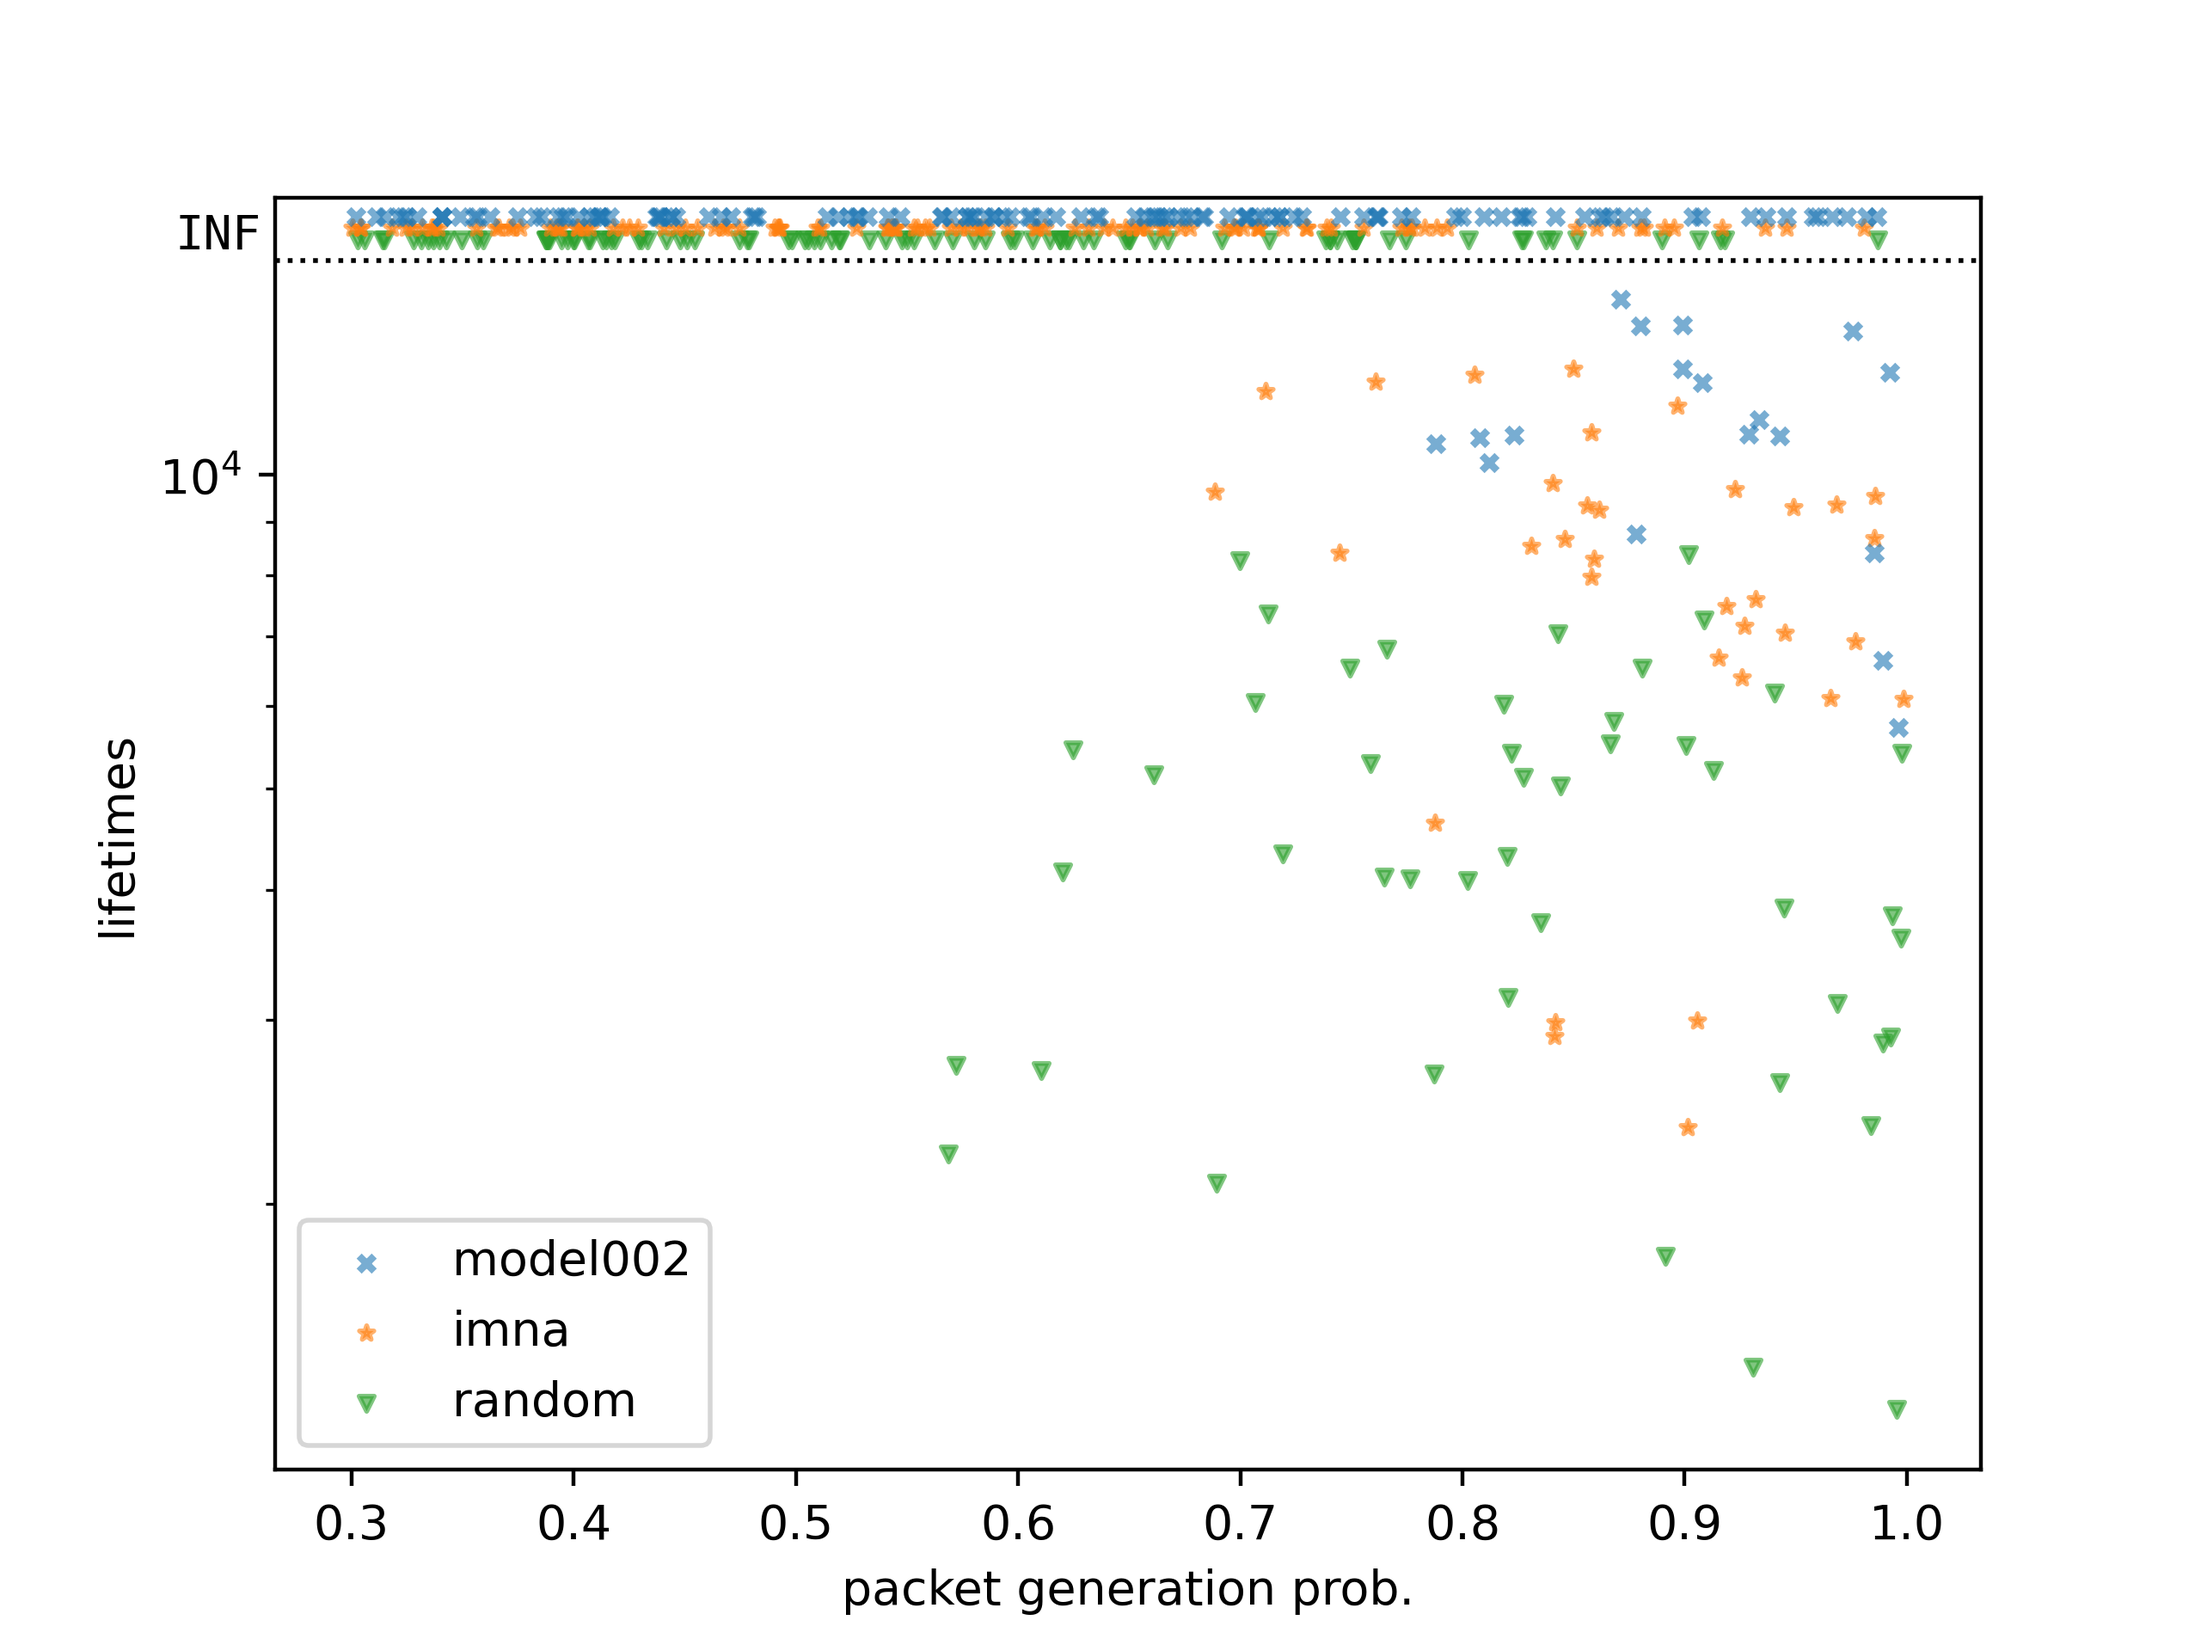
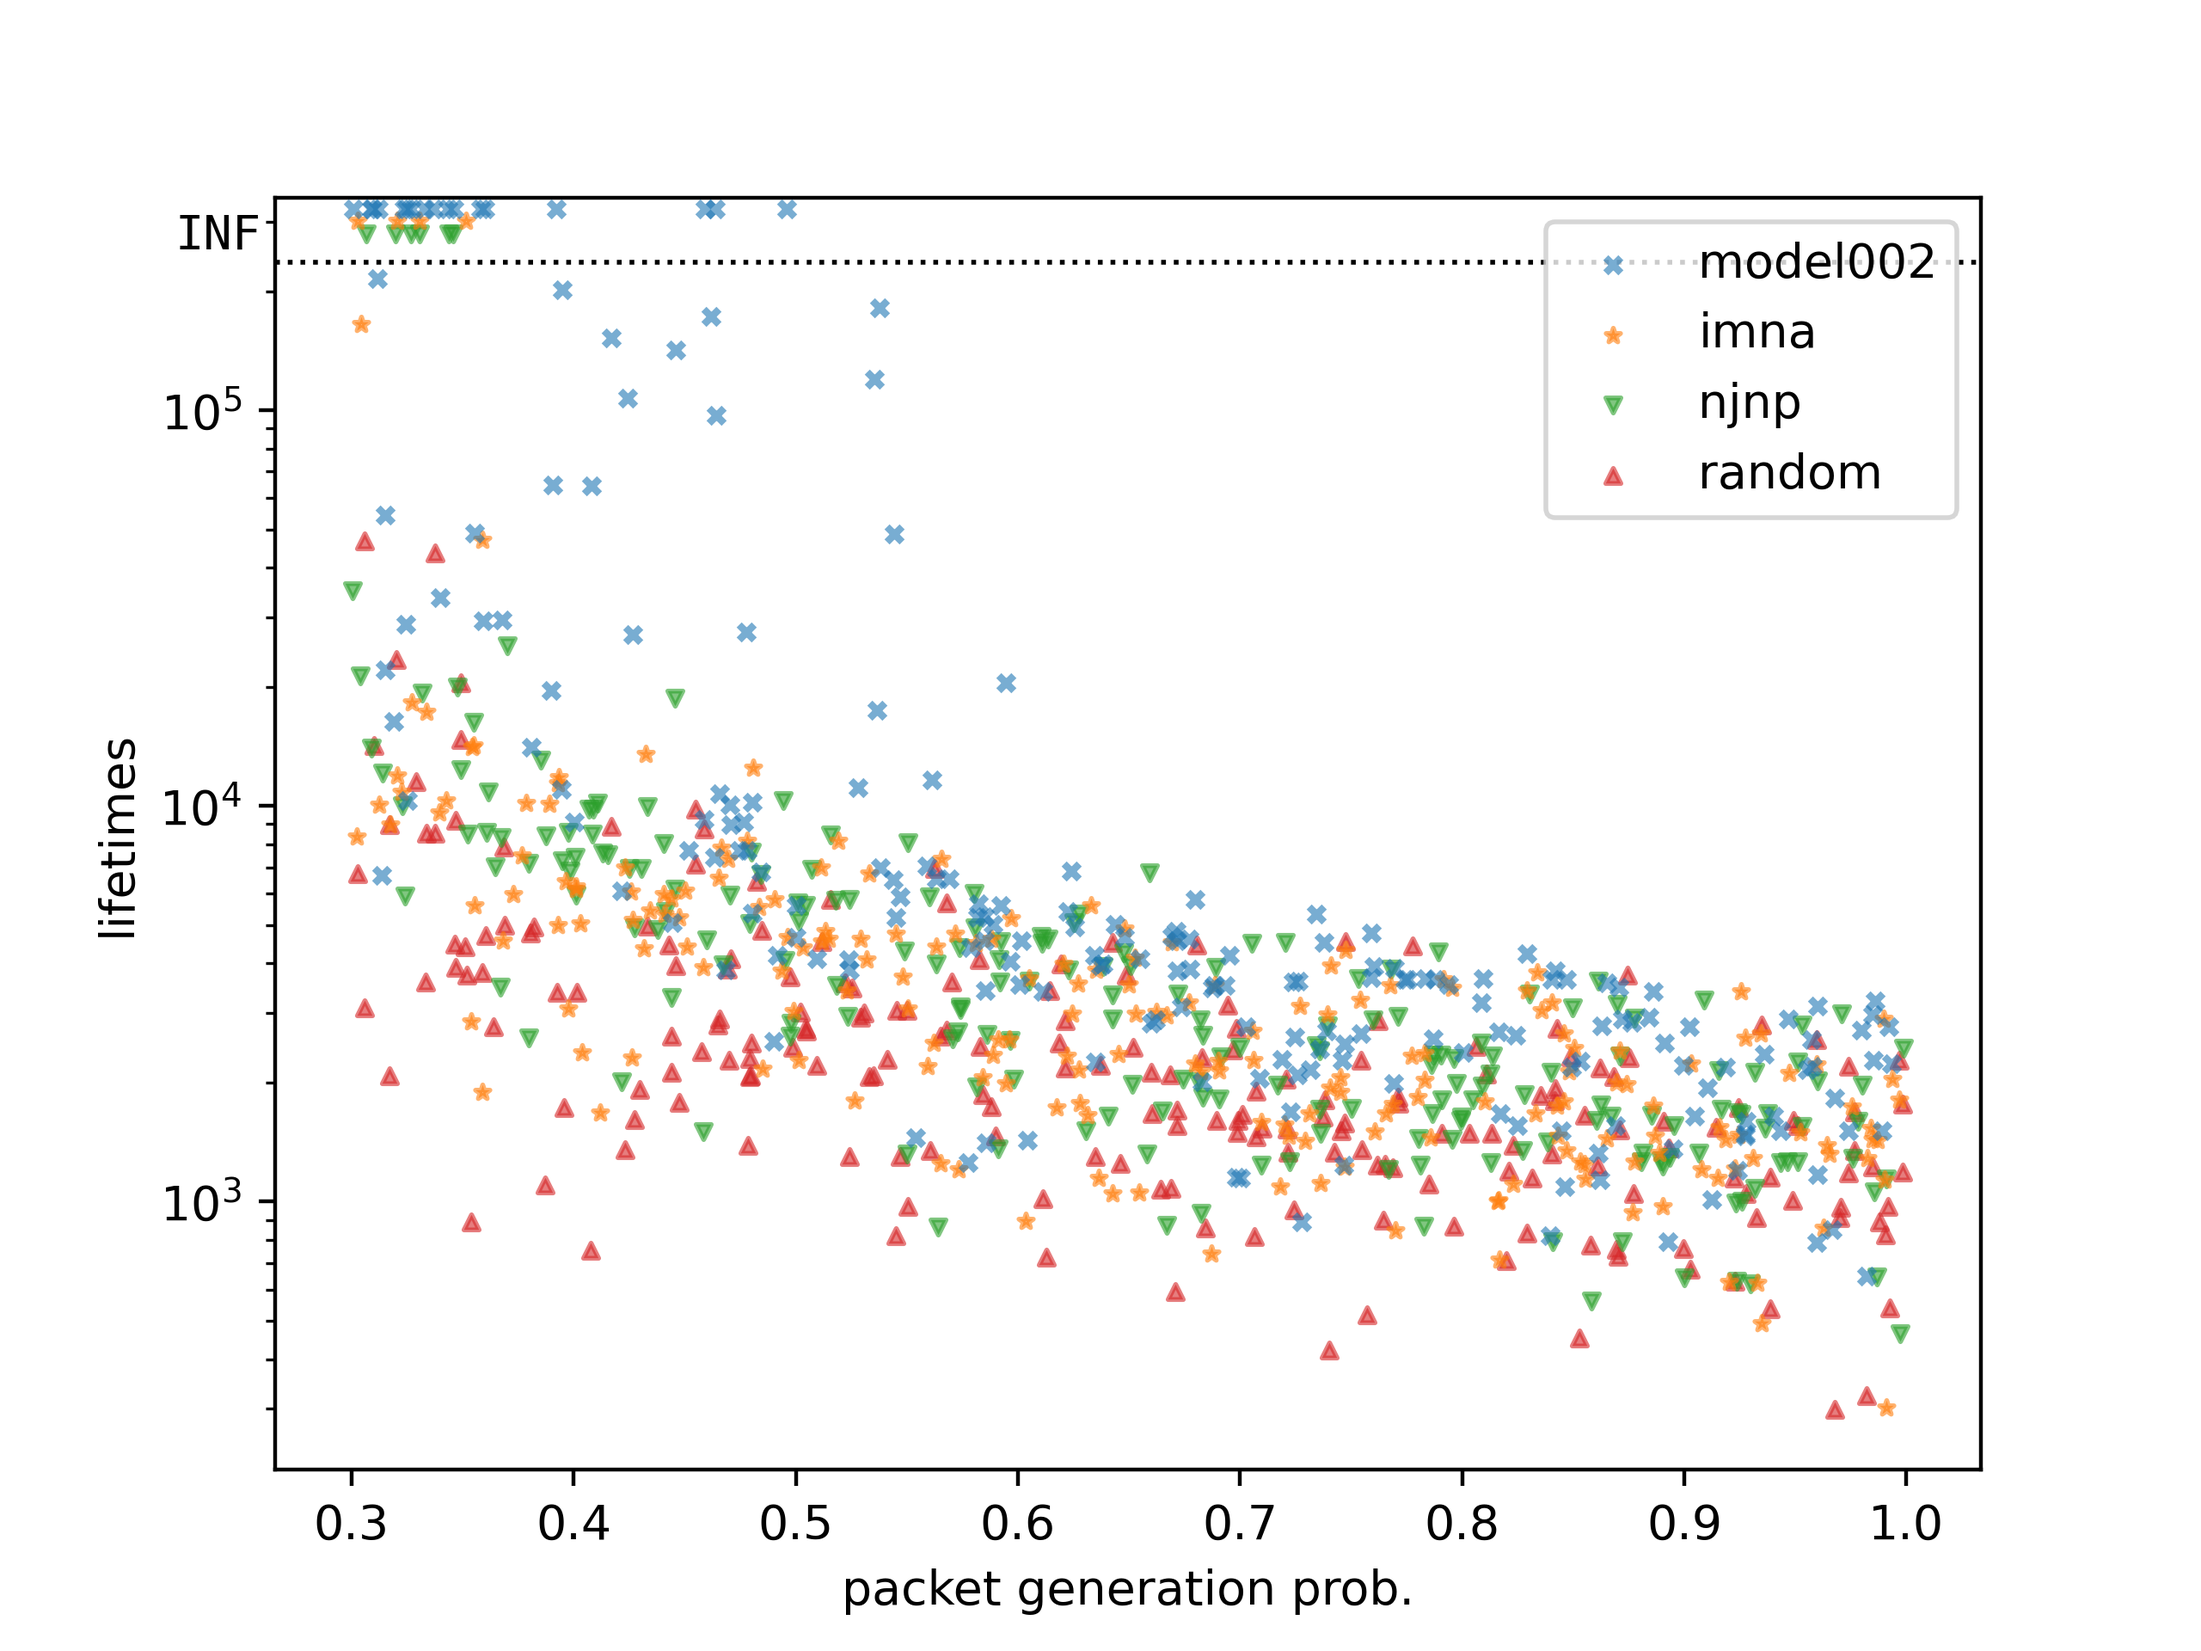
update

diff --git a/run_ept_3.py b/run_ept_3.py
@@ -43,11 +43,12 @@ def validate(data_loader, decision_maker, args=None,
     k_bit = wp.k_bit
 
     for idx, data in enumerate(data_loader):
-        print("Test %d" % idx)
-
-        sensors, targets = data
         package_generation_prob = np.random.uniform(*prob_range)
         wp.k_bit = k_bit * package_generation_prob
+        # print("Test {}, {}, {}".format(idx, wp.k_bit, decision_maker.__name__))
+
+        sensors, targets = data
+        
         env = WRSNEnv(sensors=sensors.squeeze(), 
                       targets=targets.squeeze(), 
                       wp=wp,
@@ -65,7 +66,8 @@ def validate(data_loader, decision_maker, args=None,
 
         if on_episode_begin is not None:
             on_episode_begin(*args)
-
+        # verbose = True
+        # render=True
         max_step = max_step or dp.max_step
         for step in range(max_step):
             if render:
@@ -87,6 +89,8 @@ def validate(data_loader, decision_maker, args=None,
             if verbose: 
                 print("Step %d: Go to %d (prob: %2.4f) => reward (%2.4f, %2.4f)\n" % 
                       (step, action, prob, reward[0], reward[1]))
+                print("Aggregated ecr %2.4f, node failures %2.4f\n" % 
+                       (env.net.aggregated_ecr, env.net.node_failures))
                 print("Current network lifetime: %2.4f, mc_battery: %2.4f \n\n" % 
                        (env.net.network_lifetime, env.mc.cur_energy))
 
@@ -116,7 +120,7 @@ def validate(data_loader, decision_maker, args=None,
     if on_validation_end is not None:
         on_validation_end(*args)
 
-    print("Validation time : {}".format(time.time() - start_time))
+    # print("Validation time : {}".format(time.time() - start_time))
     return ret
 
 def run_model002(data_loader, name, save_dir, wp, prob_range, max_step=1000):
@@ -202,6 +206,7 @@ def run_ept_3(seed=123, save_dir='results', rerun=[]):
 
         for prob in np.arange(min_prob, max_prob, step):
             wp = WrsnParameters()
+            wp.k_bit = ec.ept3.k_bit
             prob_range = (prob, prob + step)
 
             for name, solver in solvers.items():
@@ -210,7 +215,7 @@ def run_ept_3(seed=123, save_dir='results', rerun=[]):
                         jobs_args.append((data_loader, name, save_dir, wp, prob_range, max_episode_step))
                         jobs_desc.append((name, prob_range))
 
-        rets = joblib.Parallel(n_jobs=-1)(joblib.delayed(solver_wrapper)(
+        rets = joblib.Parallel(n_jobs=8)(joblib.delayed(solver_wrapper)(
             solvers[jobs_desc[i][0]], jobs_desc[i], *jobs_args[i]) for i in range(len(jobs_args)))
 
         for i, ret in enumerate(rets):
@@ -230,9 +235,9 @@ def run_ept_3(seed=123, save_dir='results', rerun=[]):
         finite = np.isfinite(lifetime_values)
         max_value = np.max(lifetime_values[finite])
 
-        max_scale = 1.2
-        step = 0.03
-        margin = 0.05
+        max_scale = 1.5
+        step = 0.1
+        margin = 0.1
         i = 0
         marker = itertools.cycle(['x', '*', 'v', '^', "s", "v", "^"])
         for name, (probs, lifetimes) in data.items():
@@ -275,12 +280,13 @@ def run_ept_3(seed=123, save_dir='results', rerun=[]):
         idx = []
         inf_lifetimes = []
         x = []
-        for e in model_data:
+        for ft, e in model_data:
             x.extend(e['inf_lifetimes'])
         for prob, lifetime in x:
             idx.append(prob)
             inf_lifetimes.append(lifetime)
-        normalized_data[name] = (idx, inf_lifetimes)   
+        normalized_data[name] = (idx, inf_lifetimes)
+        # print(name, list(zip(idx, inf_lifetimes))  ) 
 
     plot(normalized_data, save_dir)
 

diff --git a/model003.py b/model003.py
@@ -1,13 +1,11 @@
 import sys
-sys.path.insert(0, './model003')
-from model import MCActor as MCActor003
+from model003.model import MCActor as MCActor003
 
 import torch.nn.functional as F
 from torch.utils.data import DataLoader
 import numpy as np
 
-sys.path.insert(0, './model002')
-import utils
+sys.path.append('./model002')
 from utils import device, pdump, pload
 from utils import WRSNDataset
 from utils import WrsnParameters as wp, DrlParameters as dp
@@ -15,7 +13,11 @@ import os
 import torch
 import random_strategy
 import main as model002
+import utils
 
+print(utils.__file__)
+print(model002.__file__)
+print(wp.p_request_threshold)
 
 def run_model003(data_loader, name, save_dir, wp, max_step=1000):
     actor = MCActor003(dp.MC_INPUT_SIZE,
@@ -42,16 +44,15 @@ if __name__ == '__main__':
     dataset = WRSNDataset(20, 10, 1, 1)
     wp.k_bit = 6000000
     data_loader = DataLoader(dataset, 1, False, num_workers=0)
-    actor = MCActor(dp.MC_INPUT_SIZE,
+    actor = MCActor003(dp.MC_INPUT_SIZE,
                     dp.DEPOT_INPUT_SIZE,
                     dp.SN_INPUT_SIZE,
                     dp.hidden_size,
                     dp.dropout).to(device)
 
-    save_dir = os.path.join(save_dir, name)
     checkpoint = 'model003/checkpoints/mc_20_10_3_small/4'
     path = os.path.join(checkpoint, 'actor.pt')
     actor.load_state_dict(torch.load(path, device))
 
-    model002.validate(data_loader, model002.decision_maker, (actor,), wp=wp, max_step=max_step,
+    model002.validate(data_loader, model002.decision_maker, (actor,), wp=wp, max_step=1000,
                             render=False, verbose=False)

diff --git a/run_ept_12.py b/run_ept_12.py
@@ -186,7 +186,7 @@ def run_ept_1_2(ept, seed=123, save_dir='results', rerun=[]):
             aggregated_ecr_std.append(ret['aggregated_ecr_std'])
             inf_lifetimes = np.array(ret['inf_lifetimes'])
             num_inf_tests = np.sum(np.isinf(inf_lifetimes))
-            inf_model_data.append(num_inf_tests)
+            inf_model_data.append(num_inf_tests/len(inf_lifetimes))
 
         lifetimes[name] = (np.array(lifetime_mean), np.array(lifetime_std))
         node_failures[name] = (np.array(node_failures_mean), np.array(node_failures_std))
